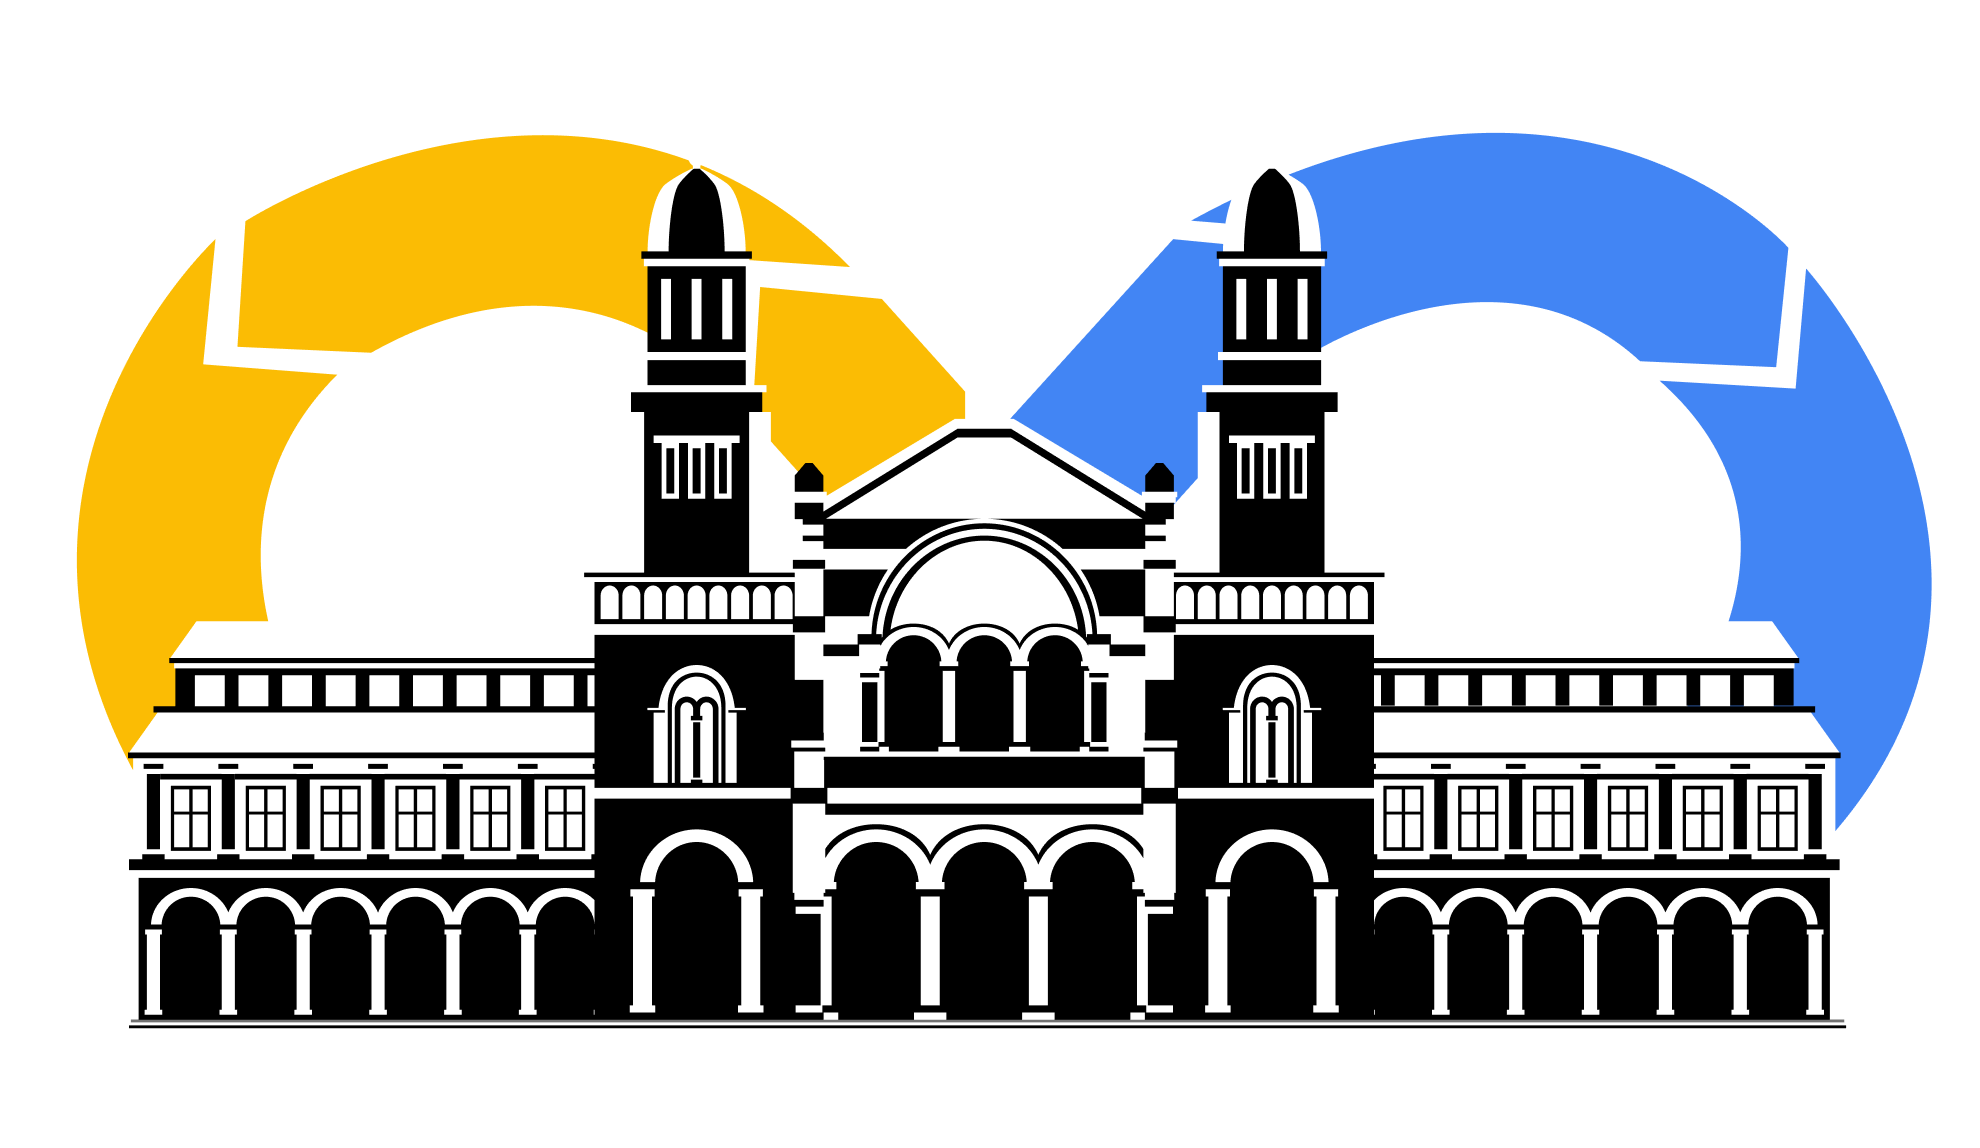
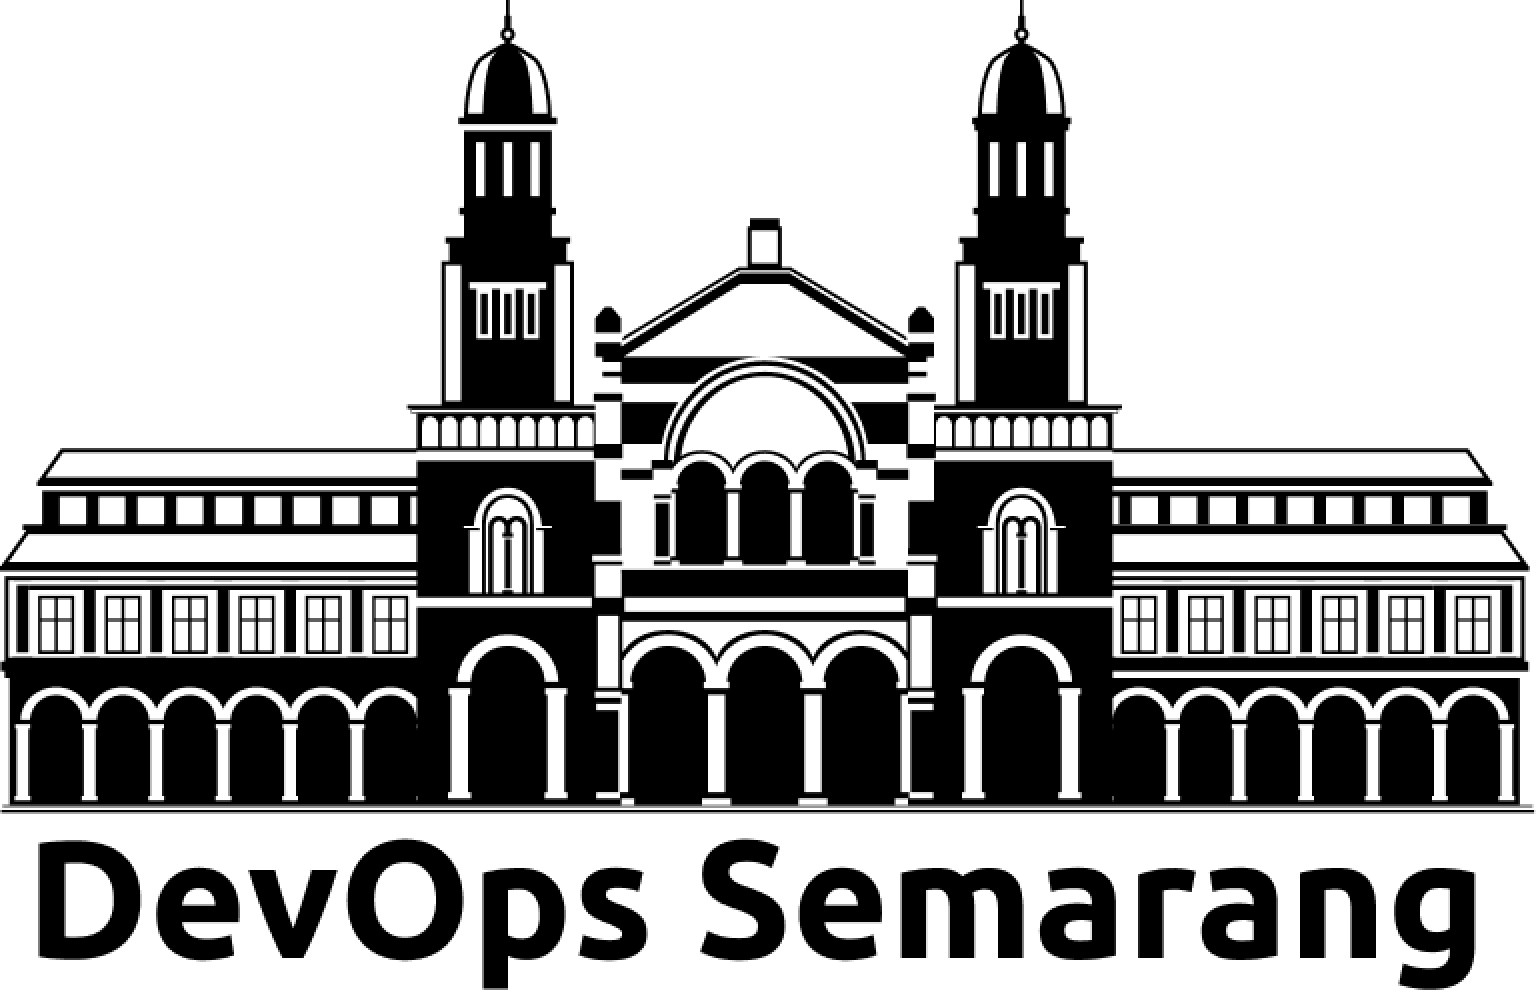
add animations

diff --git a/index.html b/index.html
@@ -8,10 +8,11 @@
         @import url('https://fonts.googleapis.com/css2?family=Ubuntu:wght@700&display=swap');
     </style>
     <link rel="stylesheet" href="style.css">
+    <link rel="stylesheet" href="animations.css">
     <script src="script.js"></script>
     <script src="https://cdn.tailwindcss.com"></script>
     <title>DevOps Semarang</title>
-    <link rel="icon" href="devops-semarang.png" type="image/x-icon">
+    <link rel="icon" href="devops-semarang.ico" type="image/x-icon">
     <meta name="description" content="Official DevOps Semarang">
     <meta name="keywords"
         content="DevOps Semarang, DevOps, Semarang, DevOps Practices, Continuous Integration, Continuous Deployment, Automation, Software Development, IT Operations, Agile, Infrastructure as Code (IaC), Containerization, Kubernetes, CI/CD Pipeline, DevOps Tools, DevOps Training, DevOps Culture, DevOps Community, DevOps Events, DevOps Solutions.">
@@ -19,40 +20,68 @@
     <meta name="robots" content="index, follow"> <!-- You can adjust this for search engine indexing -->
     <meta property="og:title" content="DevOps Semarang">
     <meta property="og:description" content="Official DevOps Semarang">
-    <meta property="og:image" content="devops-semarang.png"> <!-- Add your website's image URL here -->
+    <meta property="og:image" content="devops-semarang.ico"> <!-- Add your website's image URL here -->
     <meta property="og:url" content="https://devops-semarang.cloud/"> <!-- Add your website URL here -->
     <meta property="twitter:card" content="summary_large_image" />
     <meta property="twitter:url" content="https://devops-semarang.cloud/" />
     <meta property="twitter:title" content="DevOps Semarang" />
     <meta property="twitter:description" content="Official DevOps Semarang" />
-    <meta property="twitter:image" content="devops-semarang.png" />
+    <meta property="twitter:image" content="devops-semarang.ico" />
 </head>
 
-<body>
-    <header class="bg-white h-20 w-full fixed top-0 z-40 border-b-2">
-        <div class="w-full h-full m-auto flex justify-between items-center px-5 md:px-24"><a class="text-2xl font-bold"
-                href="/">DevOps Semarang</a>
-            <nav class="hidden md:block w-1/2">
-                <ul class="flex justify-end items-center space-x-4">
-                    <li class="inline-block p-2 cursor-pointer"><a href="https://github.com/devops-semarang"
-                            target="_blank"><img src="github.svg" alt="github" class="w-6 h-6"></a></li>
-                    <li><a href="https://discord.gg/jMEwQQ88"><button
-                                class="border-black border-2 bg-cyan-200 hover:bg-cyan-300 active:bg-cyan-400 rounded-none h-12 px-5 hover:shadow-[2px_2px_0px_rgba(0,0,0,1)]">Join
-                                Now</button></a></li>
-                </ul>
-            </nav>
-        </div>
-    </header>
-    <div class="w-full mx-auto text-center">
-        <section class="bg-white-200 w-full snap-start snap-always shrink-0">
-            <picture>
+<body class="bg-white">
+    <div class="w-full h-screen flex flex-col justify-center items-center text-center relative">
+        <section class="w-full h-screen flex flex-col items-center justify-center">
+            <!-- SVG positioned behind the image -->
+            <div class="absolute top-1/2 left-1/2 transform -translate-x-1/2 -translate-y-1/2 z-10 mx-auto max-w-full h-auto"
+                style="max-height: 400px; margin-top: -200px;">
+                <svg width="100%" height="100%" viewBox="0 0 495 241" fill="none" xmlns="http://www.w3.org/2000/svg">
+                    <!-- SVG paths here -->
+                    <path
+                        d="M174.314 161.964L202.695 164.052V188.269C202.695 188.269 149.665 240.445 72.394 178.669H98.7257L101.644 154.873C101.644 154.873 131.695 185.34 174.314 161.964Z"
+                        fill="#FBBC04" class="svg-elem-1"></path>
+                    <path
+                        d="M78.2032 50.0876C78.2032 50.0876 20.5313 103.728 67.752 172.405L94.1109 174.913L96.6219 149.449C96.6219 149.449 72.394 109.789 103.693 78.4804L75.6244 76.311L78.2032 50.0876Z"
+                        fill="#FBBC04" class="svg-elem-2"></path>
+                    <path
+                        d="M84.474 46.3317C84.474 46.3317 156.411 -5.72205e-06 211.097 55.9315L186.856 54.2638L184.345 81.3821C184.345 81.3821 156.764 47.9994 110.806 73.8839L82.8045 72.6364L84.474 46.3317Z"
+                        fill="#FBBC04" class="svg-elem-3"></path>
+                    <path
+                        d="M190.615 88.0803L192.285 60.1078L217.775 62.6162L294.667 148.188H268.348L265.837 171.984L190.615 88.0803Z"
+                        fill="#FBBC04" class="svg-elem-4"></path>
+                    <path
+                        d="M181.426 157.381L278.786 50.0876L304.697 52.596L303.028 78.9008L207.337 185.34L207.745 157.788L181.426 157.381Z"
+                        fill="#4285F4" class="svg-elem-5"></path>
+                    <path
+                        d="M282.546 46.2232L309.502 48.4198L307.629 74.1008C307.629 74.1008 347.425 48.7316 376.58 75.6601L405.083 76.9076L407.649 51.9045C407.649 51.9045 363.102 1.73556 282.546 46.2232Z"
+                        fill="#4285F4" class="svg-elem-6"></path>
+                    <path
+                        d="M380.652 79.7279L409.155 81.3957L411.354 56.2434C411.354 56.2434 473.723 125.653 406.332 185.34L378.765 183.428L381.276 154.954C381.276 154.954 418.575 113.233 380.652 79.7279Z"
+                        fill="#4285F4" class="svg-elem-7"></path>
+                    <path
+                        d="M301.358 154.873L272.57 152.364L270.954 177.734C270.954 177.734 322.043 236.594 399.138 189.625L372.807 187.496L375.318 160.256C375.318 160.256 341.779 187.116 301.358 154.873Z"
+                        fill="#4285F4" class="svg-elem-8"></path>
+                </svg>
+            </div>
+            <!-- Centered image -->
+            <picture class="relative z-20">
                 <img src="devops-semarang.png" class="mx-auto block max-w-full h-auto" style="max-height: 400px;"
                     loading="lazy" alt="Official DevOps Semarang" />
             </picture>
+            <ul class="flex justify-center space-x-4 mt-4">
+                <li><a href="https://discord.gg/jMEwQQ88" target="_blank"><button
+                            class="border-black border-2 bg-purple-400 hover:bg-purple-500 active:bg-purple-600 rounded-none h-12 px-5 hover:shadow-[2px_2px_0px_rgba(0,0,0,1)]">Discord</button></a>
+                </li>
+                <li><a href="https://github.com/devops-semarang" target="_blank"><button
+                            class="border-black border-2 bg-cyan-200 hover:bg-cyan-300 active:bg-cyan-400 rounded-none h-12 px-5 hover:shadow-[2px_2px_0px_rgba(0,0,0,1)]">GitHub</button></a>
+                </li>
+                <li><a href="https://instagram.com/devops.semarang" target="_blank"><button
+                            class="border-black border-2 bg-cyan-200 hover:bg-cyan-300 active:bg-cyan-400 rounded-none h-12 px-5 hover:shadow-[2px_2px_0px_rgba(0,0,0,1)]">Instagram</button></a>
+                </li>
+            </ul>
         </section>
-        <footer class="w-full h-[200px] m-auto flex justify-between items-center px-5 md:px-24 2xl:p-32 bg-black">
-            <div><a class="text-2xl font-bold text-white" href="/">DevOps Semarang.</a></div>
-            <div><small class="text-white">©<span id="year"></span> Made with ❤</small></div>
+        <footer class="absolute bottom-0 w-full text-center py-4">
+            <small>DevOps Semarang© <span id="year"></span></small>
         </footer>
     </div>
     <script>

diff --git a/animations.css b/animations.css
@@ -1,0 +1,220 @@
+/***************************************************
+ * Generated by SVG Artista on 11/14/2023, 12:13:21 AM
+ * MIT license (https://opensource.org/licenses/MIT)
+ * W. https://svgartista.net
+ **************************************************/
+
+@-webkit-keyframes animate-svg-fill-1 {
+  0% {
+    fill: transparent;
+  }
+
+  100% {
+    fill: rgb(251, 188, 4);
+  }
+}
+
+@keyframes animate-svg-fill-1 {
+  0% {
+    fill: transparent;
+  }
+
+  100% {
+    fill: rgb(251, 188, 4);
+  }
+}
+
+.svg-elem-1 {
+  -webkit-animation: animate-svg-fill-1 0.7s cubic-bezier(0.215, 0.61, 0.355, 1)
+    0.8s both;
+  animation: animate-svg-fill-1 0.7s cubic-bezier(0.215, 0.61, 0.355, 1) 0.8s
+    both;
+}
+
+@-webkit-keyframes animate-svg-fill-2 {
+  0% {
+    fill: transparent;
+  }
+
+  100% {
+    fill: rgb(251, 188, 4);
+  }
+}
+
+@keyframes animate-svg-fill-2 {
+  0% {
+    fill: transparent;
+  }
+
+  100% {
+    fill: rgb(251, 188, 4);
+  }
+}
+
+.svg-elem-2 {
+  -webkit-animation: animate-svg-fill-2 0.7s cubic-bezier(0.215, 0.61, 0.355, 1)
+    0.9s both;
+  animation: animate-svg-fill-2 0.7s cubic-bezier(0.215, 0.61, 0.355, 1) 0.9s
+    both;
+}
+
+@-webkit-keyframes animate-svg-fill-3 {
+  0% {
+    fill: transparent;
+  }
+
+  100% {
+    fill: rgb(251, 188, 4);
+  }
+}
+
+@keyframes animate-svg-fill-3 {
+  0% {
+    fill: transparent;
+  }
+
+  100% {
+    fill: rgb(251, 188, 4);
+  }
+}
+
+.svg-elem-3 {
+  -webkit-animation: animate-svg-fill-3 0.7s cubic-bezier(0.215, 0.61, 0.355, 1)
+    1s both;
+  animation: animate-svg-fill-3 0.7s cubic-bezier(0.215, 0.61, 0.355, 1) 1s both;
+}
+
+@-webkit-keyframes animate-svg-fill-4 {
+  0% {
+    fill: transparent;
+  }
+
+  100% {
+    fill: rgb(251, 188, 4);
+  }
+}
+
+@keyframes animate-svg-fill-4 {
+  0% {
+    fill: transparent;
+  }
+
+  100% {
+    fill: rgb(251, 188, 4);
+  }
+}
+
+.svg-elem-4 {
+  -webkit-animation: animate-svg-fill-4 0.7s cubic-bezier(0.215, 0.61, 0.355, 1)
+    1.1s both;
+  animation: animate-svg-fill-4 0.7s cubic-bezier(0.215, 0.61, 0.355, 1) 1.1s
+    both;
+}
+
+@-webkit-keyframes animate-svg-fill-5 {
+  0% {
+    fill: transparent;
+  }
+
+  100% {
+    fill: rgb(66, 133, 244);
+  }
+}
+
+@keyframes animate-svg-fill-5 {
+  0% {
+    fill: transparent;
+  }
+
+  100% {
+    fill: rgb(66, 133, 244);
+  }
+}
+
+.svg-elem-5 {
+  -webkit-animation: animate-svg-fill-5 0.7s cubic-bezier(0.215, 0.61, 0.355, 1)
+    1.2000000000000002s both;
+  animation: animate-svg-fill-5 0.7s cubic-bezier(0.215, 0.61, 0.355, 1)
+    1.2000000000000002s both;
+}
+
+@-webkit-keyframes animate-svg-fill-6 {
+  0% {
+    fill: transparent;
+  }
+
+  100% {
+    fill: rgb(66, 133, 244);
+  }
+}
+
+@keyframes animate-svg-fill-6 {
+  0% {
+    fill: transparent;
+  }
+
+  100% {
+    fill: rgb(66, 133, 244);
+  }
+}
+
+.svg-elem-6 {
+  -webkit-animation: animate-svg-fill-6 0.7s cubic-bezier(0.215, 0.61, 0.355, 1)
+    1.3s both;
+  animation: animate-svg-fill-6 0.7s cubic-bezier(0.215, 0.61, 0.355, 1) 1.3s
+    both;
+}
+
+@-webkit-keyframes animate-svg-fill-7 {
+  0% {
+    fill: transparent;
+  }
+
+  100% {
+    fill: rgb(66, 133, 244);
+  }
+}
+
+@keyframes animate-svg-fill-7 {
+  0% {
+    fill: transparent;
+  }
+
+  100% {
+    fill: rgb(66, 133, 244);
+  }
+}
+
+.svg-elem-7 {
+  -webkit-animation: animate-svg-fill-7 0.7s cubic-bezier(0.215, 0.61, 0.355, 1)
+    1.4000000000000001s both;
+  animation: animate-svg-fill-7 0.7s cubic-bezier(0.215, 0.61, 0.355, 1)
+    1.4000000000000001s both;
+}
+
+@-webkit-keyframes animate-svg-fill-8 {
+  0% {
+    fill: transparent;
+  }
+
+  100% {
+    fill: rgb(66, 133, 244);
+  }
+}
+
+@keyframes animate-svg-fill-8 {
+  0% {
+    fill: transparent;
+  }
+
+  100% {
+    fill: rgb(66, 133, 244);
+  }
+}
+
+.svg-elem-8 {
+  -webkit-animation: animate-svg-fill-8 0.7s cubic-bezier(0.215, 0.61, 0.355, 1)
+    1.5s both;
+  animation: animate-svg-fill-8 0.7s cubic-bezier(0.215, 0.61, 0.355, 1) 1.5s
+    both;
+}
